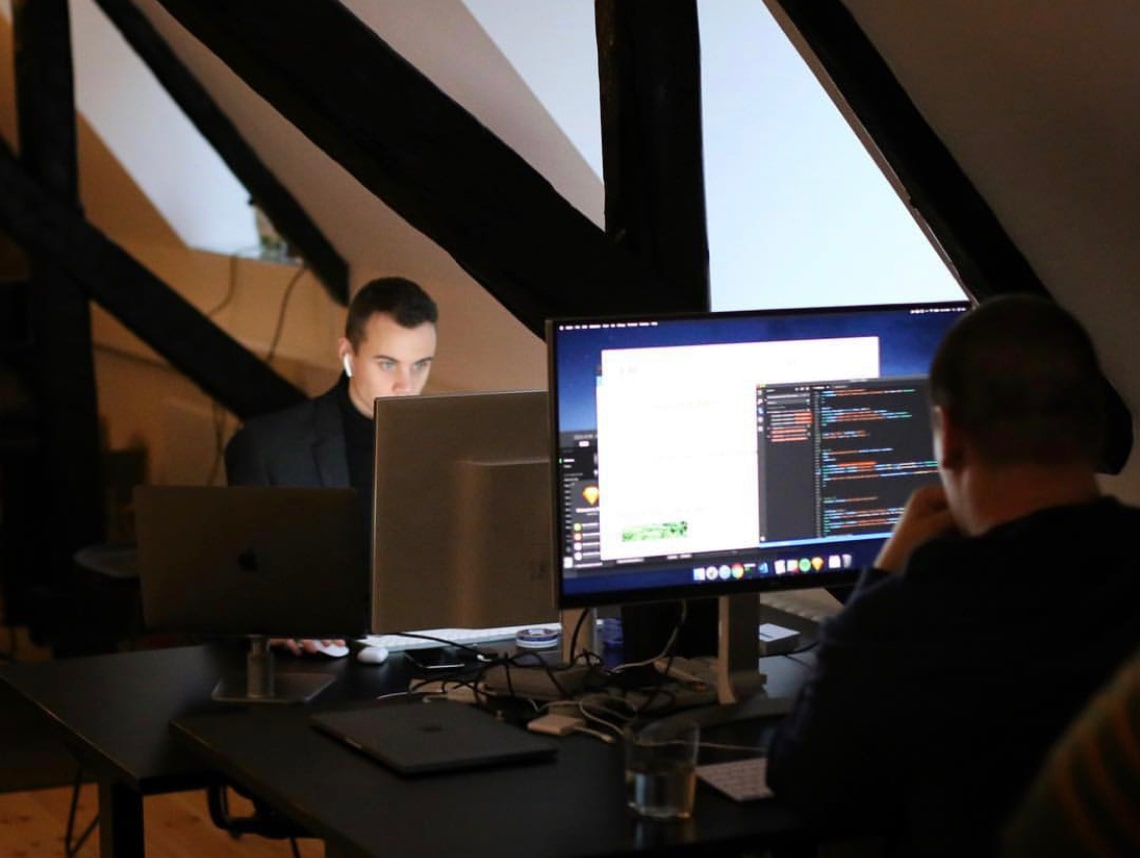
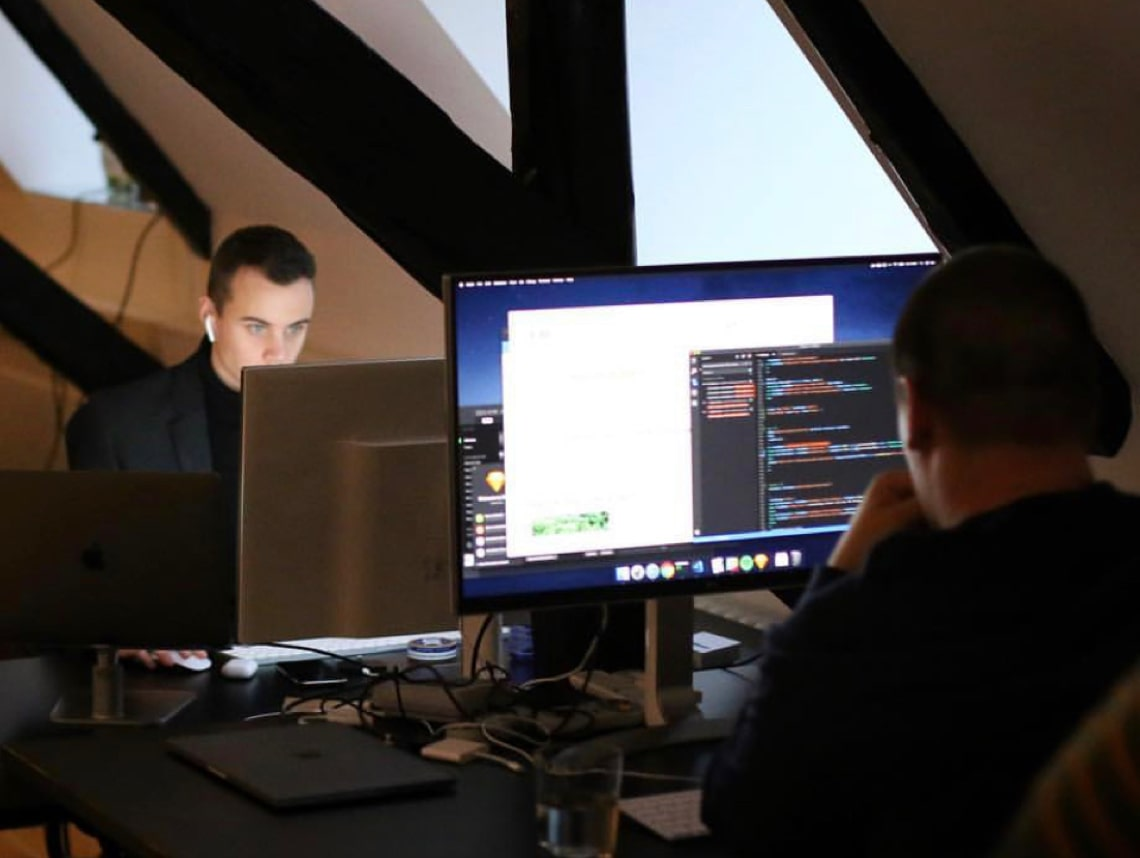
Add team/workspace/position images

diff --git a/src/routes/careers.sass b/src/routes/careers.sass
@@ -10,7 +10,7 @@
     height: 100%
     margin: 0 auto
     max-width: $max-width
-    padding: 5rem 3rem
+    padding: 5rem 3rem 25rem
     width: 100%
 
     > .heroText
@@ -69,12 +69,25 @@
           > .image
             height: inherit
             margin-right: 8rem
+            position: relative
 
             > img
               height: 100%
               max-width: 53rem
               object-fit: cover
               width: 100%
+
+            &:after
+              content: ''
+              height: 100%
+              width: 100%
+              display: block
+              position: absolute
+              top: 0
+              left: 0
+              z-index: 121211
+              opacity: 0.3
+              background: rgba(4,21,54,0.70)
 
           > .desc
             display: flex
@@ -142,6 +155,18 @@
               max-width: 58rem
               object-fit: cover
               width: 100%
+
+            &:after
+              content: ''
+              height: 100%
+              width: 100%
+              display: block
+              position: absolute
+              top: 0
+              left: 0
+              z-index: 121211
+              opacity: 0.3
+              background: rgba(4,21,54,0.70)
 
           > .desc
             display: flex

diff --git a/src/components/team-pictures.sass b/src/components/team-pictures.sass
@@ -28,6 +28,7 @@
       height: 33.5rem
       margin: 1rem
       overflow: hidden
+      position: relative
 
       &:nth-child(2n)
         flex-basis: calc(34% - 2rem)
@@ -42,6 +43,18 @@
         min-height: 100%
         object-fit: cover
         width: 100%
+
+      &:after
+        content: ''
+        height: 100%
+        width: 100%
+        display: block
+        position: absolute
+        top: 0
+        left: 0
+        z-index: 121211
+        opacity: 0.3
+        background: rgba(4,21,54,0.70)
 
   @media screen and (max-width: 800px)
     > .text

diff --git a/src/routes/about.sass b/src/routes/about.sass
@@ -10,7 +10,7 @@
     height: 100%
     margin: 0 auto
     max-width: $max-width
-    padding: 5rem 3rem
+    padding: 5rem 3rem 25rem
     width: 100%
 
     > .heroText

diff --git a/src/routes/home.sass b/src/routes/home.sass
@@ -10,7 +10,7 @@
     height: 100%
     margin: 0 auto
     max-width: $max-width
-    padding: 5rem 3rem
+    padding: 5rem 3rem 25rem
     width: 100%
 
     > .welcome

diff --git a/src/routes/work.sass b/src/routes/work.sass
@@ -10,7 +10,7 @@
     height: 100%
     margin: 0 auto
     max-width: $max-width
-    padding: 5rem 3rem
+    padding: 5rem 3rem 25rem
     width: 100%
 
     > .welcome

diff --git a/src/routes/team.sass b/src/routes/team.sass
@@ -10,7 +10,7 @@
     height: 100%
     margin: 0 auto
     max-width: $max-width
-    padding: 5rem 3rem
+    padding: 5rem 3rem 25rem
     width: 100%
 
     > .text
